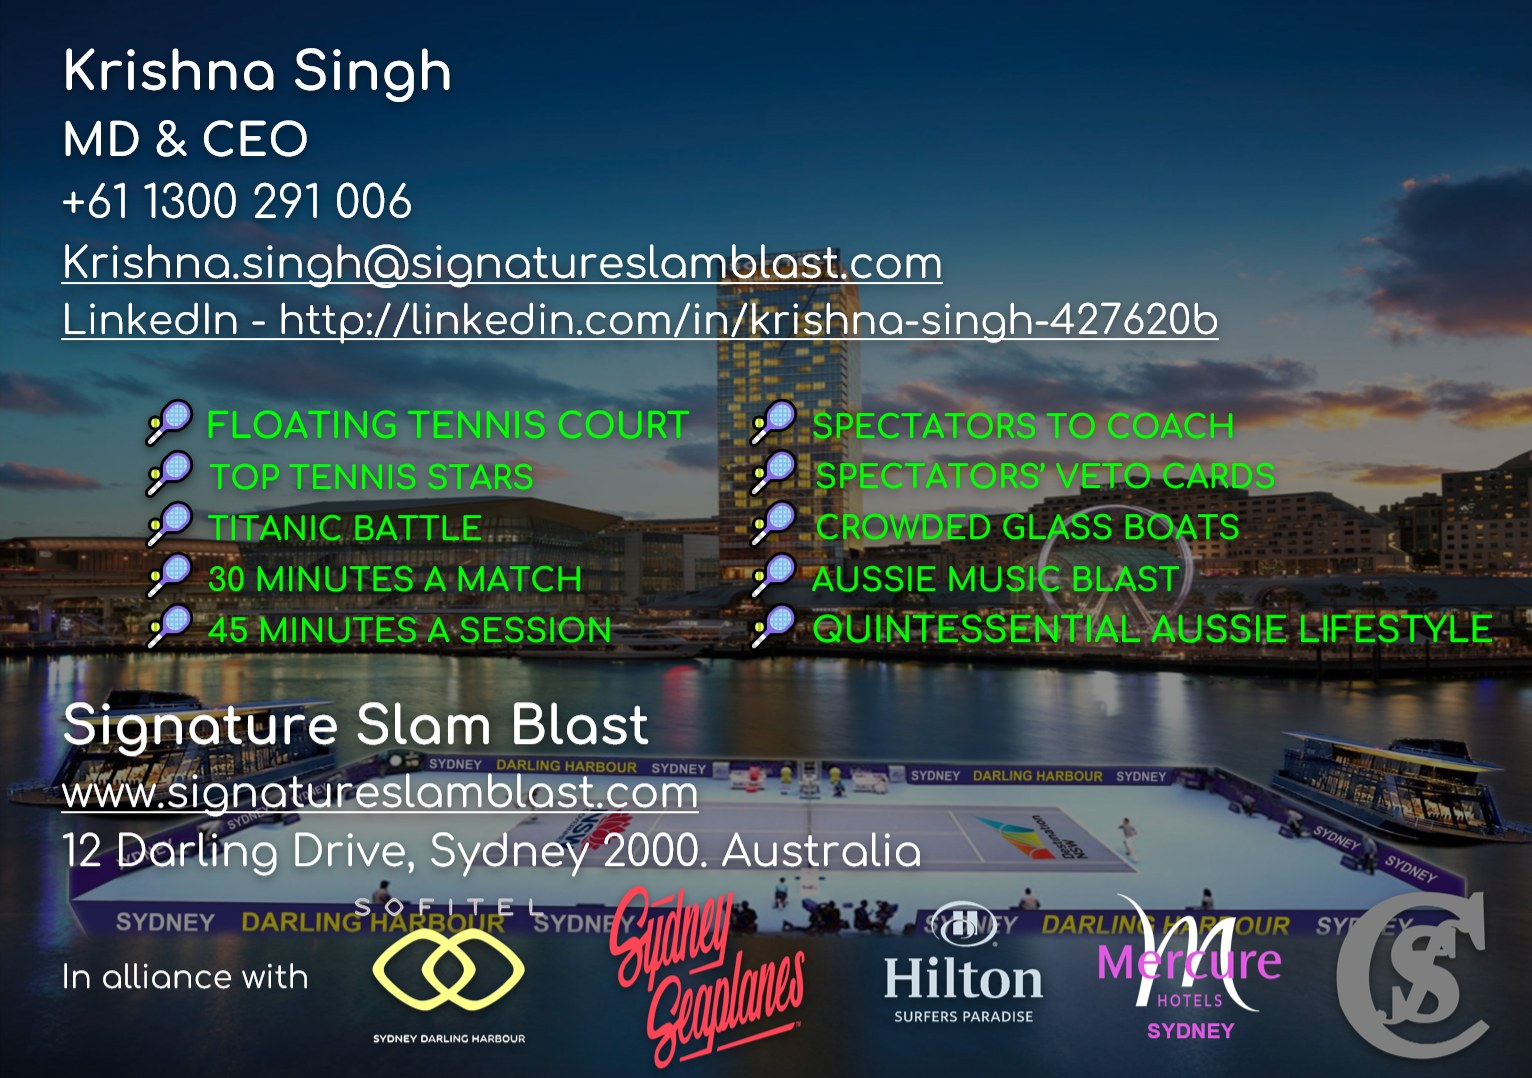
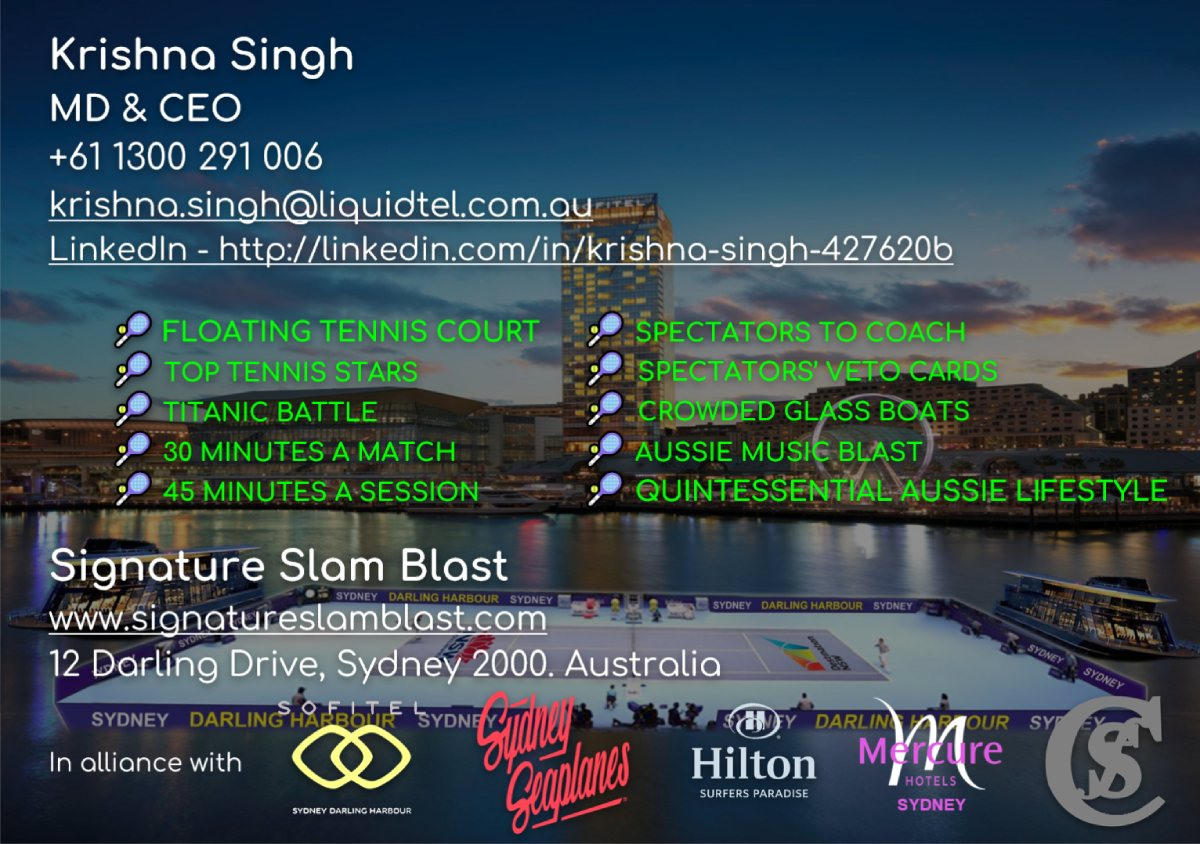
Add files via upload

diff --git a/index.html b/index.html
@@ -1,0 +1,46 @@
+<!DOCTYPE html>
+<html lang="en">
+<head>
+    <meta charset="UTF-8">
+    <meta http-equiv="X-UA-Compatible" content="IE=edge">
+    <meta name="viewport" content="width=device-width, initial-scale=1.0">
+    <title>Krishna Singh - MD & CEO</title>
+    <style>
+         body{
+            text-align: center;
+            background-color: #002;
+        }
+        img{
+            max-width: 1080px;
+        }
+    </style>
+</head>
+<body>
+
+    <div style="position:relative">
+        <img id="main-image" src="assets/Krishna.jpg" width="100%">
+        <a href="https://www.signatureslamblast.com" class="rim-hotspot" style="width:48.4%; height:5.8%; left:3.1%; top:70.3%; position:absolute; cursor:pointer; display:block; z-index:5; overflow:hidden;"></a>
+        <a href="https://linkedin.com/in/krishna-singh-427620b" class="rim-hotspot" style="width:78.4%; height:5.8%; left:3.3%; top:27.1%; position:absolute; cursor:pointer; display:block; z-index:5; overflow:hidden;"></a>
+        <a href="tel:+611300291006" class="rim-hotspot" style="width:33.9%; height:5.5%; left:3.5%; top:15.2%; position:absolute; cursor:pointer; display:block; z-index:5; overflow:hidden;"></a>
+        <a href="mailto:krishna.singh@liquidtel.com.au" class="rim-hotspot" style="width:65.3%; height:6.2%; left:3.5%; top:20.9%; position:absolute; cursor:pointer; display:block; z-index:5; overflow:hidden;"></a>
+        <a href="https://www.schwartz.com.au/" class="rim-hotspot" style="width:13.0%; height:16.7%; left:87.0%; top:82.8%; position:absolute; cursor:pointer; display:block; z-index:5; overflow:hidden;"></a>
+        <a href="https://www.mercuresydney.com.au/" class="rim-hotspot" style="width:14.5%; height:16.5%; left:71.8%; top:82.6%; position:absolute; cursor:pointer; display:block; z-index:5; overflow:hidden;"></a>
+        <a href="https://hiltonsurfersparadise.com.au/" class="rim-hotspot" style="width:15.7%; height:16.7%; left:55.4%; top:82.8%; position:absolute; cursor:pointer; display:block; z-index:5; overflow:hidden;"></a>
+        <a href="https://www.sofitelsydneydarlingharbour.com.au/" class="rim-hotspot" style="width:14.6%; height:17.0%; left:22.1%; top:82.0%; position:absolute; cursor:pointer; display:block; z-index:5; overflow:hidden;"></a>
+        <a href="https://www.seaplanes.com.au/" class="rim-hotspot" style="width:17.6%; height:17.7%; left:37.0%; top:81.8%; position:absolute; cursor:pointer; display:block; z-index:5; overflow:hidden;"></a>
+    </div>
+
+    <div style="position:relative"><img id="main-image" src="assets/Krishna 2.jpg" width="100%">
+        <a href="https://www.signatureslamacademy.com" class="rim-hotspot" style="width:50.3%; height:5.7%; left:1.9%; top:69.3%; position:absolute; cursor:pointer; display:block; z-index:5; overflow:hidden;"></a>
+        <a href="https://linkedin.com/in/krishna-singh-427620b" class="rim-hotspot" style="width:76.4%; height:4.7%; left:3.8%; top:27.3%; position:absolute; cursor:pointer; display:block; z-index:5; overflow:hidden;"></a>
+        <a href="mailto:krishna.singh@liquidtel.com.au" class="rim-hotspot" style="width:65.6%; height:5.5%; left:3.6%; top:21.4%; position:absolute; cursor:pointer; display:block; z-index:5; overflow:hidden;"></a>
+        <a href="tel:+611300291006" class="rim-hotspot" style="width:25.0%; height:6.1%; left:3.6%; top:14.9%; position:absolute; cursor:pointer; display:block; z-index:5; overflow:hidden;"></a>
+        <a href="https://www.schwartz.com.au/" class="rim-hotspot" style="width:13.0%; height:16.7%; left:87.0%; top:82.8%; position:absolute; cursor:pointer; display:block; z-index:5; overflow:hidden;"></a>
+        <a href="https://www.mercuresydney.com.au/" class="rim-hotspot" style="width:14.5%; height:16.5%; left:71.8%; top:82.6%; position:absolute; cursor:pointer; display:block; z-index:5; overflow:hidden;"></a>
+        <a href="https://hiltonsurfersparadise.com.au/" class="rim-hotspot" style="width:15.7%; height:16.7%; left:55.4%; top:82.8%; position:absolute; cursor:pointer; display:block; z-index:5; overflow:hidden;"></a>
+        <a href="https://www.sofitelsydneydarlingharbour.com.au/" class="rim-hotspot" style="width:14.6%; height:17.0%; left:22.1%; top:82.0%; position:absolute; cursor:pointer; display:block; z-index:5; overflow:hidden;"></a>
+        <a href="https://www.seaplanes.com.au/" class="rim-hotspot" style="width:17.6%; height:17.7%; left:37.0%; top:81.8%; position:absolute; cursor:pointer; display:block; z-index:5; overflow:hidden;"></a>
+    </div>
+
+</body>
+</html>
